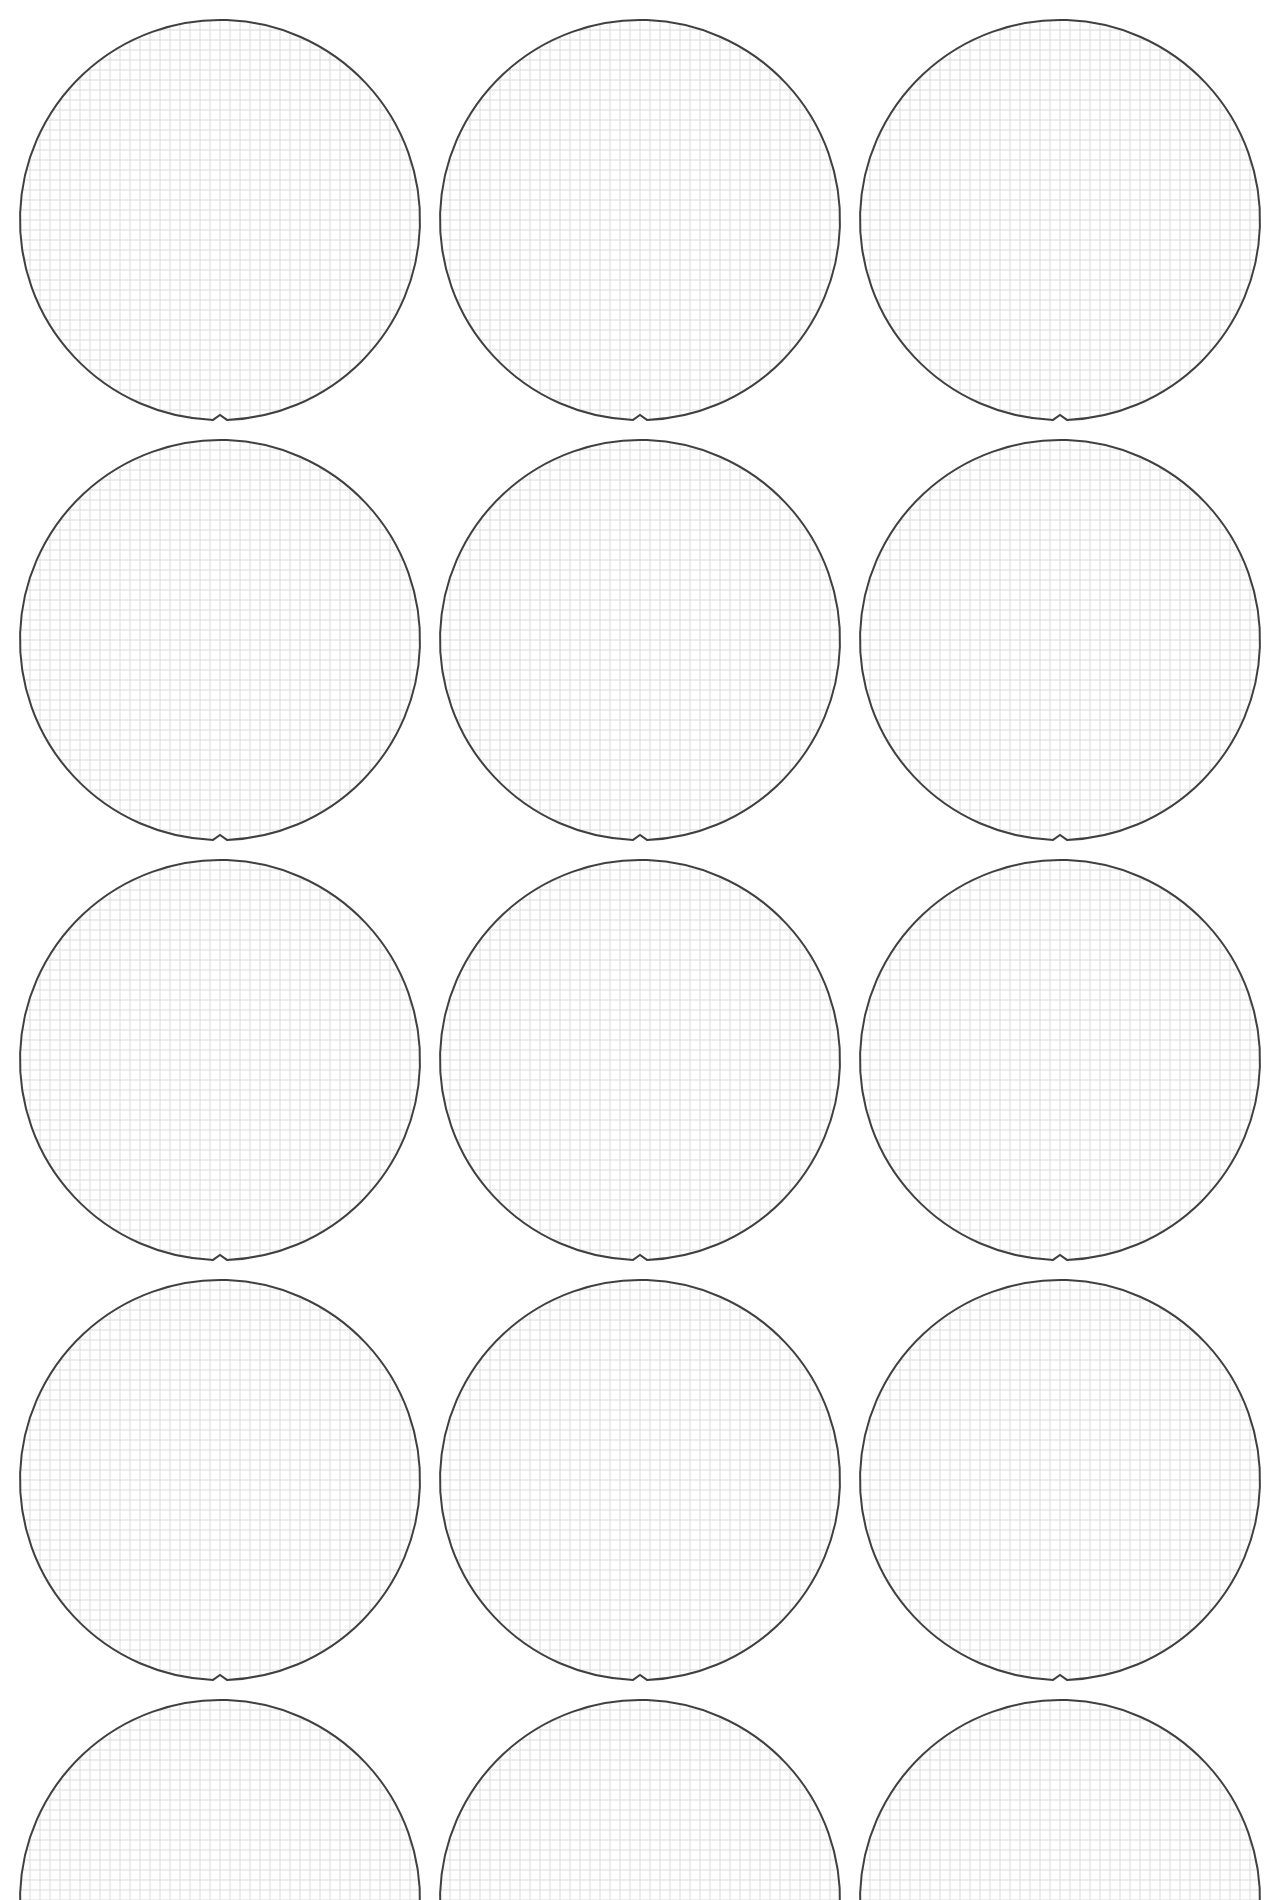
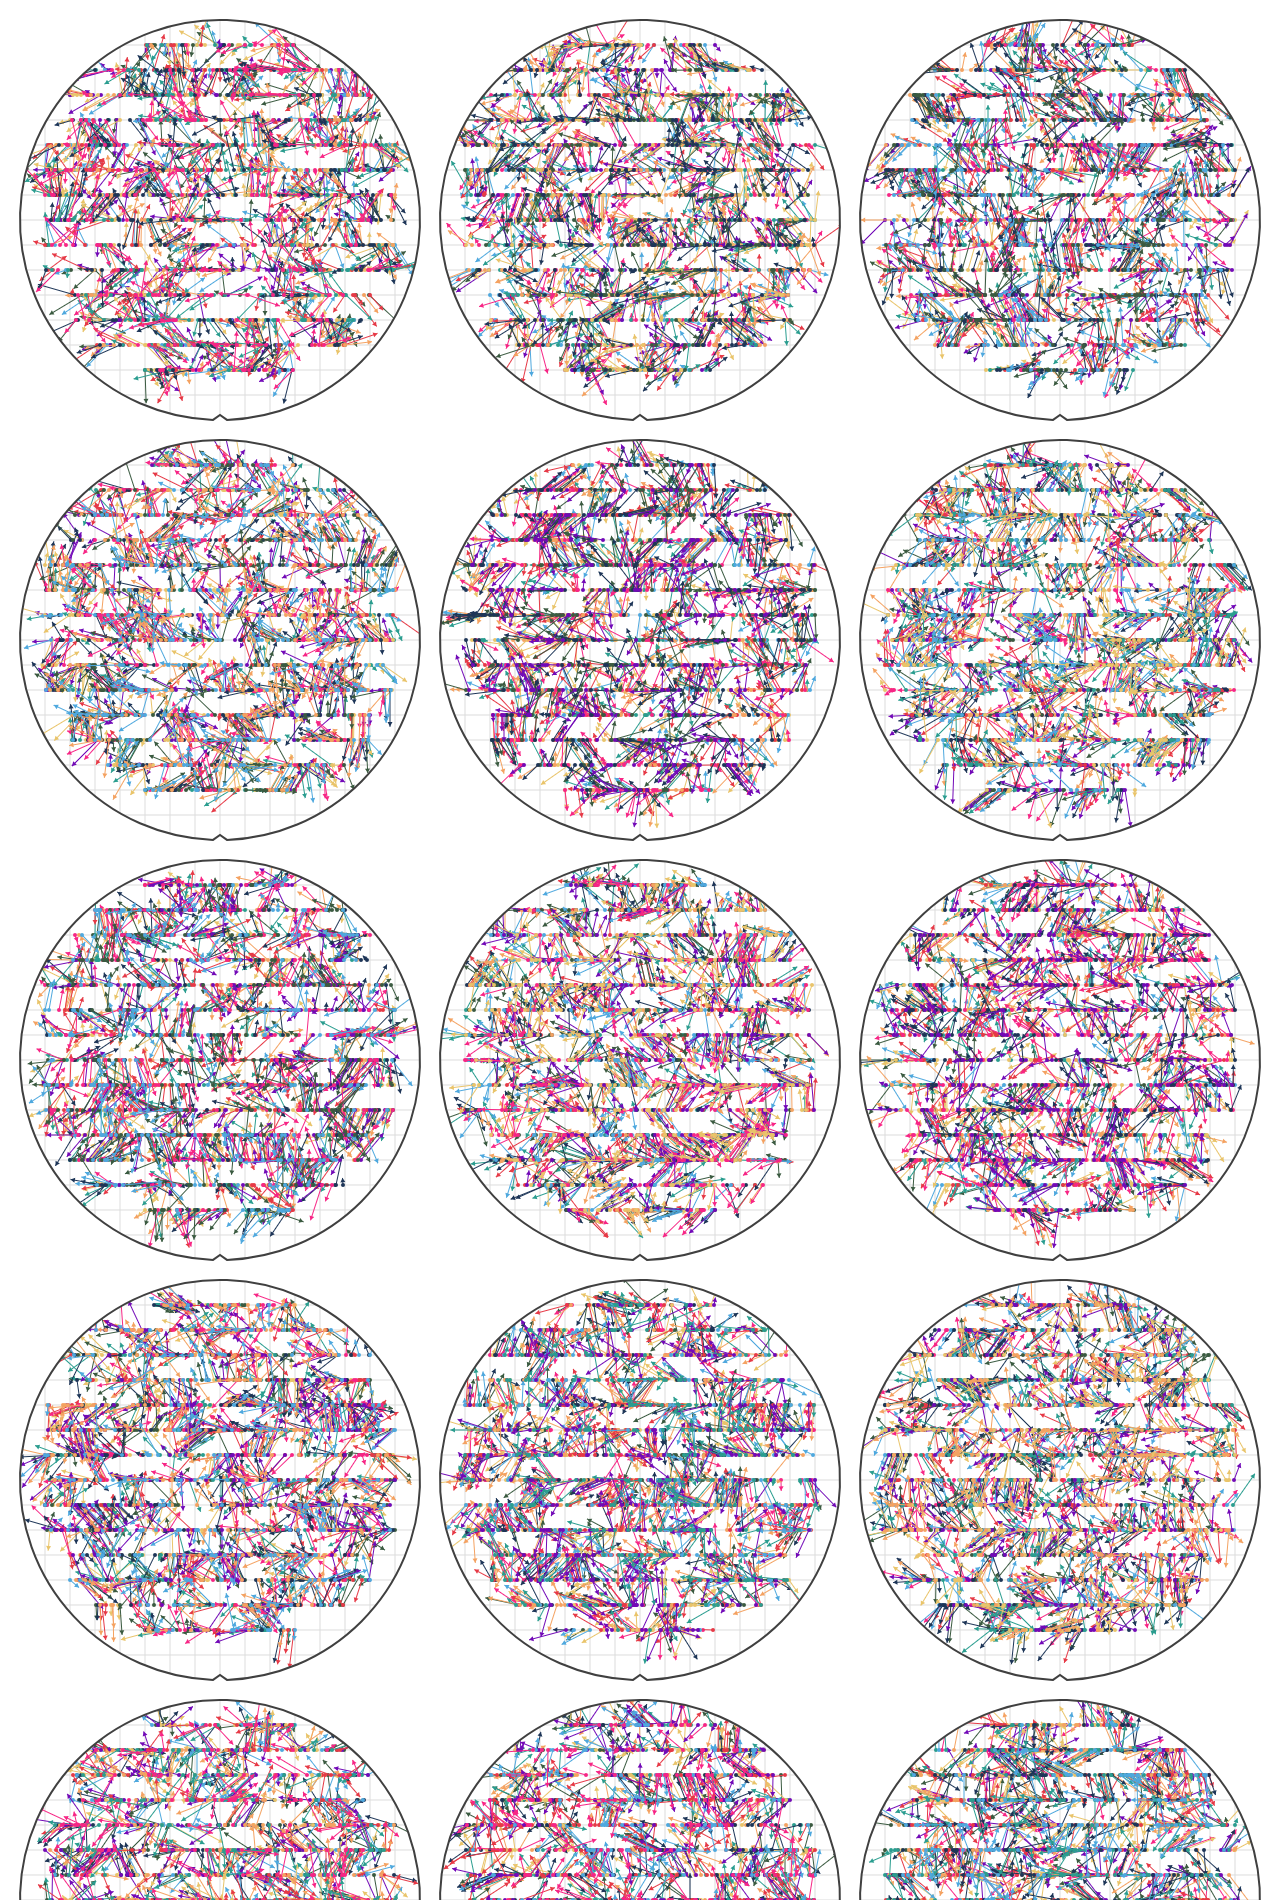
feat : resultSet 통일 및 수정  - 화상표 추가함  - 그리는 시간 추가함  - 화사표 개수 추가  - 샘플 이미지 추가

diff --git a/README.md b/README.md
@@ -17,11 +17,9 @@ https://app.diagrams.net/#G1Enzqq07T-BQjr0GoS5rM1tieKvBO_FPx#%7B%22pageId%22%3A%
 
 ![img_2.png](img_2.png)
 
-
-![wafer_sample.png](test_code/rendererTest/wafer_sample.png)
+![wafer_sample.png](wafer_sample.png)
 
 ```
-
 Total 1374.08 ms 1.37 sec 
 
 ⏱ [Wafer Render Pipeline] Grid Render: 6.20 ms
